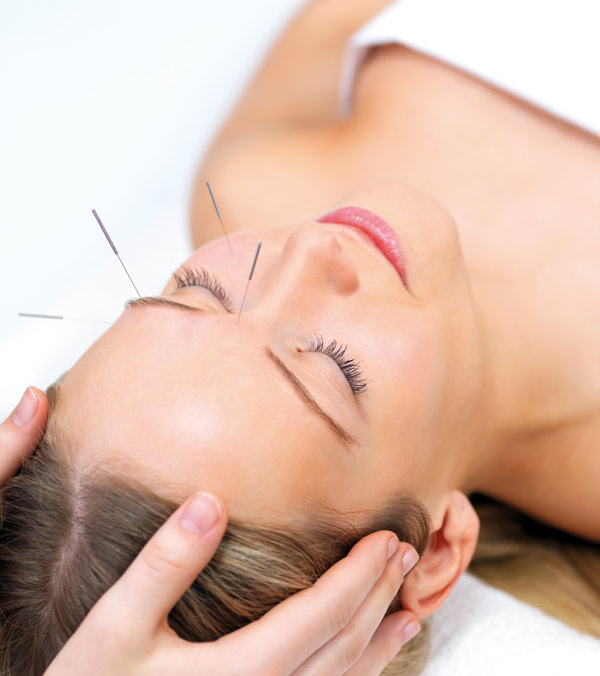
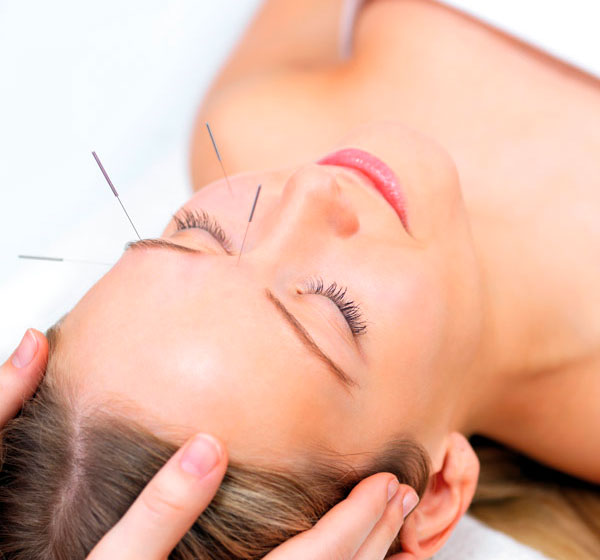
add tabak page

diff --git a/pages/lechenie-tabakokureniya/index.vue b/pages/lechenie-tabakokureniya/index.vue
@@ -1,0 +1,118 @@
+<template>
+  <div>
+		<div class="departments">
+			<div class="depart-sec">
+				<div class="container">
+					
+					<div class="row">
+					<div class="col-md-12">
+						<div class="main-title">
+							<h1>Избавиться от курения табака</h1>
+							<p class="p-sub-title">Сделай первый шаг на пути к чистому дыханию!</p>
+						</div>
+					</div>
+					</div>
+					
+					<div class="row">
+            <div class="col-md-7">
+              <div class="detail">
+                 <div class="gray-block">
+                    <p class="quote mb-0">Мечтаете бросить курить? Вы давно хотите бросить курить? Вы много раз пытались бросить, но начинали снова?</p>
+                  </div>
+                  <p>Приступая к решению этого вопроса, необходимо понимание задачи и личное желание освободиться от курения. Хотя почти все курильщики знают, что курить вредно, полного представления о подлинном влиянии табака на организм они не имеют.</p>
+                  <p>А так как вредное влияние табака сказывается не сразу, как например, алкоголя, то многие не осознают в полной мере вреда курения.</p>
+              </div>
+            </div>		
+            <div class="col-md-5">
+              <div class="item"><img src="~assets/custom-img/inner-page/acupuncture/acupuncture-face.jpg" alt=""></div>  
+            </div>
+				  </div>
+          <div class="row">
+            <div class="col-md-12">
+              <h2>Курение табака. Реальная угроза</h2>
+              
+              <p>В табачном дыме содержится более 200 опасных для организма человека веществ, которые обладают сильными отравляющими и разрушающими организм человека свойствами. Среди них особенно вредны никотин, табачный деготь, угарный газ, смолы, пиридин, синильная кислота, мышьяк, вещества, обладающие радиоактивным (полоний, изотоп калия) и канцерогенным(бензпирен) действием.</p>
+              <p>Курение-это <span class="accent-bold">вдыхание дыма</span> тлеющего табака, что является одной из форм токсикомании.</p>
+              <p><span class="accent-bold">Угарный газ</span> (окись углерода, СО) при вдыхании табачного дыма проникает в легкие и соединяется с гемоглобином эритроцитов крови, что препятствует переносу кислорода от легких ко всем органам и тканям, в результате возникает кислородное голодание (гипоксия). При гипоксии страдают в первую очередь нервные клетки, которые очень чувствительны к недостатку кислорода. Такое состояние приводит к гибели нервных клеток, снижению памяти, умственной и физической работоспособности.</p>
+              <p><span class="accent-bold">Никотин</span> -это нейротоксин, является наркотиком- именно он вызывает пристрастие к табаку. Для человека смертельная доза составляет 50-100 мг. -именно такая доза поступает после выкуривания 20-25 сигарет.</p>
+              <p>Никотин относится к нервным ядам. Проникая в межклеточные структуры клеток головного мозга, действует сначала возбуждающе, а затем угнетает нервную систему. В результате потребность в никотине и, как следствие, в курении возрастает-возникает <span class="accent-bold">физическая зависимость</span>. Курение становится средством, чтобы поднять настроение, чувствовать себя более уверенно, успокоиться, облегчить общение. На этом фоне формируется <span class="accent-bold">психическая зависимость</span>. Расстройство нервной системы проявляется понижением работоспособности, дрожанием рук, ослаблением
+              памяти. Под влиянием никотина просвет сосудов сужается. Пагубное влияние никотина на кровеносные сосуды приводит к заболеванию облитерирующим эндартериитом. Если больные не бросают  курить, то исходом будет омертвение конечностей с дальнейшей их ампутацией .</p>
+              <p><span class="accent-bold">Вдыхание табачного дыма</span> (курение) оказывает вредное влияние на все системы и органы.</p>
+              <p><span class="accent-bold">Нервная система</span> находится в состоянии хронического напряжения (возбуждающее влияние никотина) и кислородного голода (из-за спазма мозговых сосудов и угарного газа). В результате у курящего снижена умственная и физическая работоспособность, плохая память, ослаблены <span class="accent-bold">волевые качества</span>. Кроме того, он испытывает повышенную раздражительность, нарушено засыпание и часто отмечаются головные боли.</p>
+              <p><span class="accent-bold">Дыхательная система</span> под влиянием табачного дыма находится в состоянии хронического воспаления. Снижается местный иммунитет, часто возникают простудные заболевания, хронический бронхит.</p>
+              <p>Вредное влияние курения на органы дыхания, в конечном счете, приводит к <span class="accent-bold">раку легких</span>, вероятность его возникновения прямо пропорциональна количеству выкуренных сигарет.</p>
+              <p>У систематически курящего человека развиваются заболевания <span class="accent-bold">сердечно-сосудистой системы</span>: повышенное артериальное давление, нарушение мозгового кровообращения, инсульт, склероз сосудов сердца вплоть до развития инфаркта миокарда.</p>
+              <p>Курение оказывает крайне негативное воздействие на <span class="accent-bold">репродуктивную систему и сексуальное поведение</span>, как женщин, так и мужчин. Сексуальное поведение человека, направленное, в конечном счете на реализацию репродуктивной функции, может нормально проявляться при общении сексуально здоровых партнеров.</p>
+              <p>У курящих женщин происходят гормональные дисфункции, чаще встречаются предменструальный синдром, болезненные ощущения и нарушения менструального цикла. Табачный дым оказывает сильное токсическое воздействие на женские яичники, запуская необратимые процессы, ведущие к гибели яйцеклетки. В результате значительно снижается способность женщины зачать и выносить здорового ребенка.</p>
+              <p>В половой функции у мужчин происходят следующие негативные изменения:</p>
+              <ul class="accent-list-done">
+                  <li><i class="icon-alert"></i>снижается эрекция</li>
+                  <li><i class="icon-alert"></i>снижается интенсивность и количество половых актов</li>
+                  <li><i class="icon-alert"></i>возникает эректильная дисфункция</li>
+                  <li><i class="icon-alert"></i>наступает импотенция.</li>
+              </ul>
+              <h2>Избавиться от курения за 1 сеанс</h2>
+              <p class="font-size-18">Высокоэффективная методика</p>
+              <p>Если понимание вредного влияния курения табака на организм есть, то разумным и верным решением будет- полное прекращение курения. Вопрос заключается в том, что при наличии психической и физической (никотиновой) зависимости, отказаться от курения самостоятельно крайне сложно.</p>
+              <h2>Сенсорное программирование <br> Нейро-кодирование</h2>
+              <p class="font-size-18">Комплексный подход к решению задачи</p>
+              <p>Для эффективного решения проблемы никотиновой зависимости
+                необходимо учитывать психологические, физиологические и социальные
+                факторы. Эту задачу позволяет успешно решить сеанс <span class="accent-bold">Нейро-Сенсорного кодирования</span>. Методика широко известна в РФ с 1979 года как "Акупунктурное программирование" и занесена в Психотерапевтическую энциклопедию под редакцией Б.Д. Карвасарского. Методика предполагает комплексный подход с применением методов психотерапии и рефлексотерапии (иглоукалывания), что позволяет получить максимальный результат <span class="accent-bold">за 1 сеанс</span>. Наименование <span class="accent-bold">"Нейро-Сенсорное кодирование"</span> более правильно и полно отражает суть метода.
+              </p>
+              <p>Сеанс Нейро-Сенсорное кодирование - это комплексный подход современной психотерапии и
+              восточной иглорефлексотерапии. Метод основан на базовом знании
+              сенсорных связей органов чувств с центрами нервной регуляции и
+              психофизиологическим состоянием. Сеанс направлен на укрепление воли,
+              нормализацию функции межклеточных структур клеток головного мозга и
+              настройку оптимального психофизиологического состояния, при котором
+              курение табака (марихуаны, спайса) становится не приемлемым. В этом
+              основное назначение сеанса.</p>
+              <div class="accent-icon">
+                <p><i class="icon-checkmark"></i> Психотерапевтическая часть сеанса содержит в себе полную
+                информацию о проблеме никотиновой зависимости с позиции
+                психологических и физиологических факторов. В заключение проводится сеанс сенсорной релаксации.</p>
+                <p><i class="icon-checkmark"></i> Сеанс проводится в аудио-визуальном формате специальным образом так, что,
+                поступая через сенсорные пути воздействует на центры нервной регуляции
+                вызывая необходимые изменения.</p>
+                <p><i class="icon-checkmark"></i> Нейрокодирование проводится посредством иглорефлексотерапии в
+                комплексе с определенным внушением, что позволяет получить
+                максимальный эффект. Иглотерапия проводится по точкам, которые традиционно используются в Тибетской медицине.</p>
+              </div>
+              <p class="accent-bold">Общая продолжительность комплексного сеанса 2 часа.</p>
+
+              <h2>Курс лечения</h2>
+              <p>Для того, чтобы избавиться от вредной привычки, достаточно пройти всего <span class="accent-bold">1 сеанс VIP.</span></p>
+              <p>При высокой степени никотиновой зависимости (стаж курения более 5 лет, более 1 пачки в день) лечение проводится по программе <span class="accent-bold">"7 шагов к чистому дыханию."</span></p>
+              <p>Программа 7 шагов к чистому дыханию включает в себя подготовительную процедуру, сеанс VIP, процедуры, поддерживающие необходимое психофизиологическое состояние.</p>
+              <p class="font-size-18">Для прохождения сеанса программирования необходимо соблюдение двух условий:</p>
+              <p>1) Решение отказаться от курения должно быть принято самостоятельно и вполне осознанно.</p>
+              <p>2) На момент прохождения сеанса программирования необходимо воздержание от курения не менее 12 часов. </p>
+              <p>Сеанс VIP оказывает общеоздоравливающий и гармонизирующий эффект.</p>
+              <p>После сеанса в организме планомерно протекают желательные изменения:</p>
+              <ul class="accent-list-done">
+                  <li><i class=" icon-plus"></i> Укрепляется Воля – повышается способность сознательно управлять своими эмоциями и поступками.</li>
+                  <li><i class=" icon-plus"></i>Формируется новое психофизиологическое состояние, при котором исчезает влечение (тяга) к курению табака.</li>
+                  <li><i class=" icon-plus"></i>Возникает безразличное отношение ко всему, что связано с курением.</li>
+                  <li><i class=" icon-plus"></i>Восстанавливается функция нервной системы и нормализуется сон.</li>
+                  <li><i class=" icon-plus"></i>Появляется уверенность в себе и стремление добиваться успеха в поставленных целях.</li>
+              </ul>
+              <p>При необходимости оказывается помощь при наличии сопутствующих заболеваний.</p>
+              <p><span class="accent-bold">Первичная консультация проводится бесплатно.</span></p>
+              <h3>Преимущества методики</h3>
+              <p>Более 25 лет успешной работы!</p>
+              <p>85% обратившихся бросают курить за 1 сеанс VIP.</p>
+              <p>Для достижения положительного результата, методика мобилизует скрытые ресурсы психики и возможности организма.</p>
+            </div>
+          </div>
+				</div>
+			</div>
+    </div>
+  </div>
+</template>
+
+<script>
+export default {
+  
+}
+</script>

diff --git a/layouts/default.vue b/layouts/default.vue
@@ -78,6 +78,13 @@ export default {
   .dr-quote{
       background: url('~assets/custom-img/parallax/tibet-sky.jpg') no-repeat fixed;
   }
+    .logo img{
+        width: 230px;
+    }
+    header.sticky .logo img{
+        width: 190px;
+        margin: 14px 0 0 0;
+    }
   /* inner page css */
     .header{
         box-shadow: 0 0 8px 0 rgba(0, 0, 0, 0.32);
@@ -104,6 +111,12 @@ export default {
         color: #222;
         line-height: 50px;
     }
+    .accent-icon i{
+        font-size: 32px;
+        float: left;
+        margin: 10px 10px 0 0;
+        color: #02ADC6;
+    }
     .gray-block{
         background: #fafafa;
         border: solid 1px #e4e4e4;
@@ -115,6 +128,13 @@ export default {
         font-family: 'Droid Serif', serif;
         color: #888;
         font-style: italic;
+    }
+    .item img{
+        max-width: 470px;
+    }
+    .align-right{
+        float: right;
+        max-width: 400px;
     }
     /* end inner page css */
 </style>

diff --git a/components/Header.vue b/components/Header.vue
@@ -37,7 +37,7 @@
         <div class="row">
           
             <div class="col-md-3">
-              <a href="index.html" class="logo"><img src="http://www.pearlthemes.com/theme/medicalguide/wp-content/uploads/2019/01/medicalguide-logo.png" alt=""></a>
+              <a href="index.html" class="logo"><img src="~assets/custom-img/inner-page/acupuncture/logo.png" alt=""></a>
             </div>
             
             <div class="col-md-9">
@@ -57,6 +57,7 @@
           <ul class="submenu">
                         <li> <nuxt-link to="/seans-pohudet">Коррекция веса</nuxt-link></li>
                         <li> <nuxt-link to="/omolozhenie">Омоложение лица</nuxt-link></li>
+                        <li> <nuxt-link to="/lechenie-tabakokureniya">Избавиться от курения табака</nuxt-link></li>
           </ul>
           </li>
           
